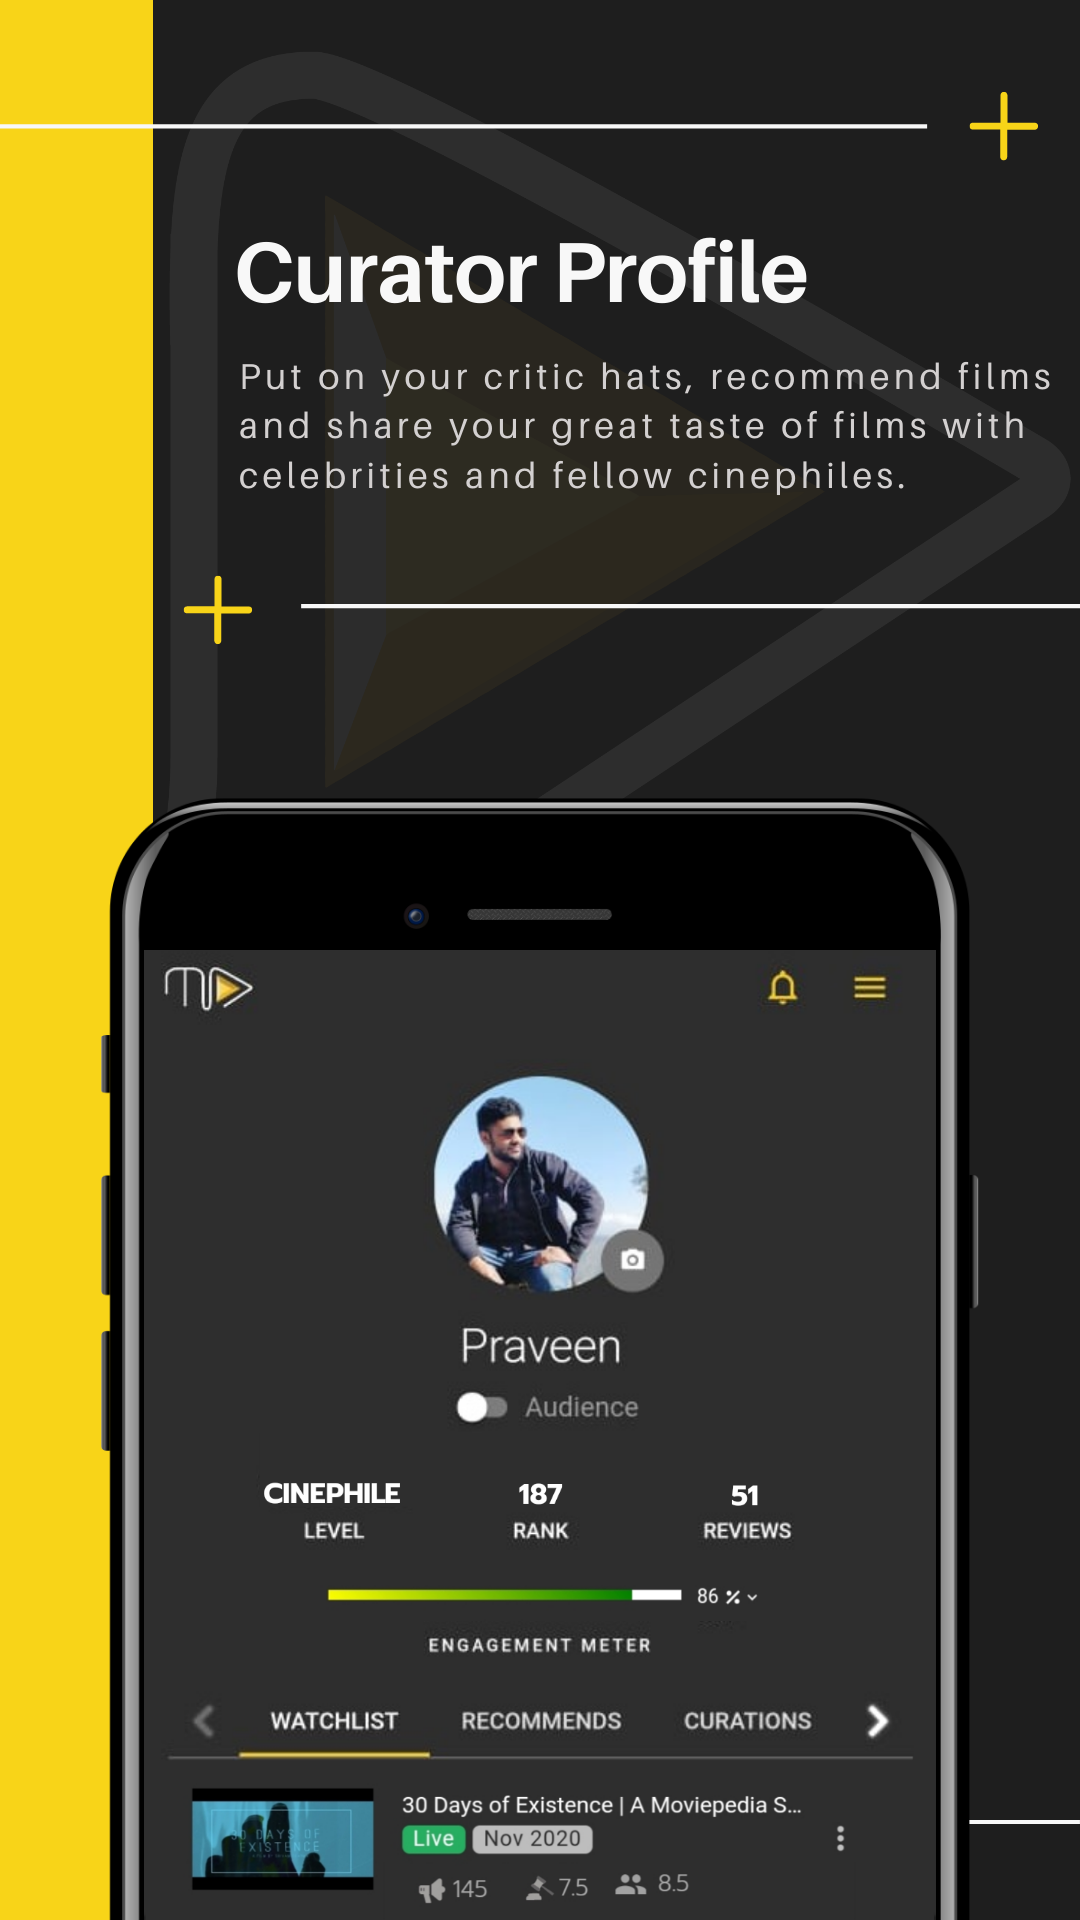
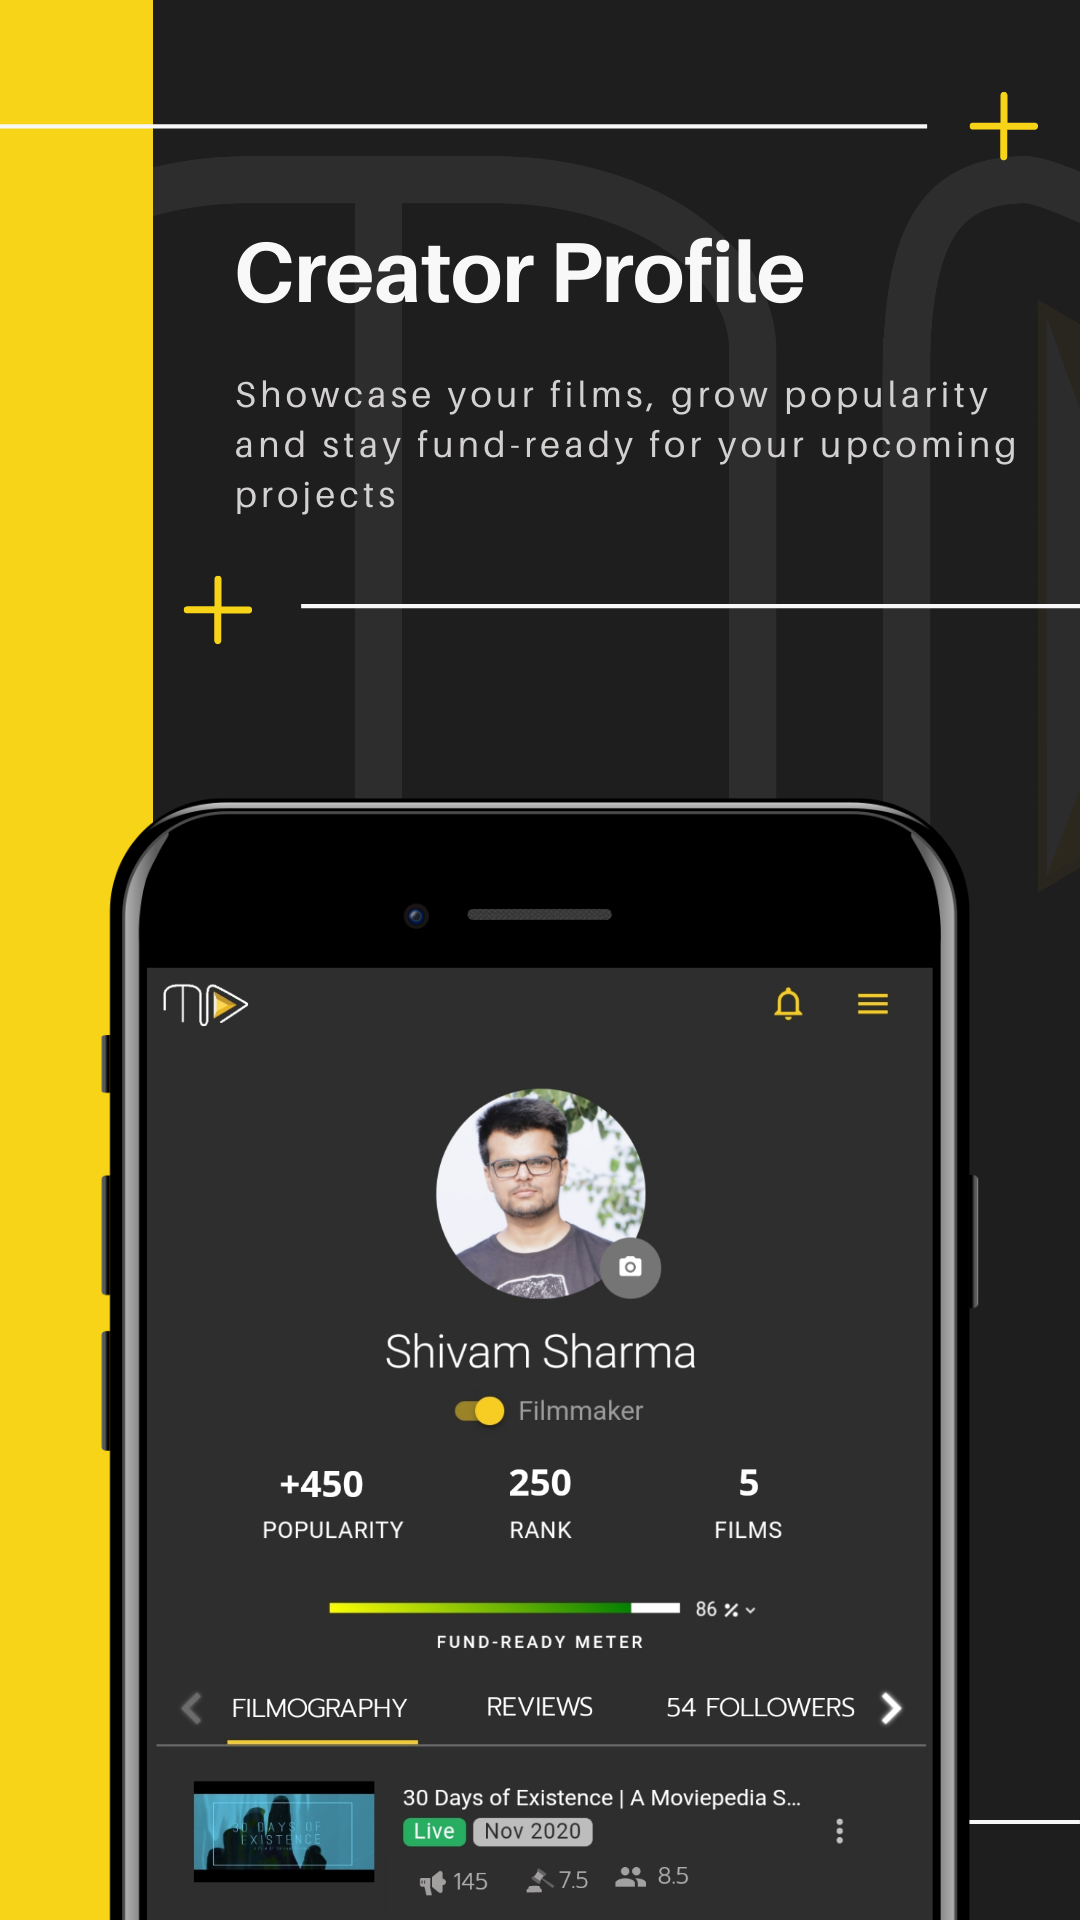
added out product

diff --git a/src/components/home/Slide9.vue b/src/components/home/Slide9.vue
@@ -1,109 +1,40 @@
 <template>
   <div
-    style="background-image: url('/img/9_bg.png')"
-    class="q-mt-lg mp-bg q-py-lg"
+    style="background-image: url('/img/8_bg.png')"
+    class="q-mt-md mp-bg q-mb-none"
   >
-    <bar-hammer />
-    <div class="q-mx-lg">
-      <div class="text-center q-mb-sm q-mt-lg">
-        <img src="@/assets/icon_stripped.png" width="200px" />
+    <div class="row items-stretch q-mt-md" style="display: relative">
+      <div class="col-12">
+        <bar-plus />
       </div>
-      <div class="mp-subtitle q-mb-lg text-center text-primary">
-        The First Content Discovery Platform
-      </div>
-
-      <div class="row q-my-md" v-for="(item, index) in contacts" :key="index">
-        <div
-          class="col self-center q-mr-lg text-right align-center mp-subtitle"
-          ref="content"
-        >
-          {{ item.text }}
-        </div>
-
-        <div
-          ref="icons"
-          class="flex justify-center items-center circular-border"
-          style="height: 70px; width: 70px"
-        >
-          <div
-            class="flex justify-center items-center circular-border"
-            style="height: 60px; width: 60px"
-          >
-            <q-btn
-              round
-              :icon="item.icon"
-              text-color="dark"
-              color="primary"
-              size="md"
-              @click="on_action(item)"
-            />
-            <a :href="item.href" :ref="item.action" target="_blank" />
+      <div class="col-10 offset-2 q-pa-md">
+        <div class="q-my-md q-mx-lg">
+          <div class="mp-title2 text-weight-bold">Curator Profile</div>
+          <div class="mp-subtitle q-mt-sm">
+            Put on the critic hats, recommend films and share your great taste
+            of films with celebrities and fellow cinephiles.
           </div>
         </div>
       </div>
-      <div class="mp-title2 text-weight-bold text-primary">Contact Us</div>
+      <div class="col-10 offset-2">
+        <bar-plus :rtl="true" />
+      </div>
+      <div class="col-12 text-center q-mt-lg" style="padding-bottom: 0px">
+        <img src="/img/9.png" width="100%" style="max-width: 300px" />
+      </div>
     </div>
-    <play-x3-bar />
   </div>
 </template>
 <script>
-import BarHammer from "@/components/style/BarHammer";
-import PlayX3Bar from "@/components/style/PlayX3Bar";
+import BarPlus from "@/components/style/BarPlus";
 export default {
-  components: { BarHammer, PlayX3Bar },
+  components: {
+    BarPlus,
+  },
   data() {
-    return {
-      contacts: [
-        {
-          text: "+91 8400334876",
-          href: "tel:+918400334876",
-          icon: "mdi-phone",
-          action: "phone",
-        },
-        {
-          text: "contactus@moviepediafilms.com",
-          href: "mailto:contactus@moviepediafilms.com",
-          icon: "mdi-email",
-          action: "email",
-        },
-        {
-          text: "+91 9711487501",
-          href: "https://wa.me/919711487501",
-          icon: "mdi-whatsapp",
-          action: "whatsapp",
-        },
-      ],
-    };
+    return {};
   },
   computed: {},
-  mounted() {
-    this.$refs.icons.forEach((icon, index) => {
-      this.$gsap.from(icon, {
-        scale: 0,
-        duration: 0.3 + 0.3 * index,
-        ease: "back",
-        scrollTrigger: icon,
-      });
-    });
-    this.$refs.content.forEach((text) => {
-      this.$gsap.from(text, {
-        opacity: 0,
-        duration: 0.5,
-        scrollTrigger: text,
-      });
-    });
-  },
-  methods: {
-    on_action(item) {
-      this.$refs[item.action][0].click();
-    },
-  },
+  mounted() {},
 };
 </script>
-<style scoped>
-.circular-border {
-  border: 1px solid #a2a2a2;
-  border-radius: 50%;
-  margin: auto;
-}
-</style>

diff --git a/src/components/home/Slide10.vue b/src/components/home/Slide10.vue
@@ -1,0 +1,109 @@
+<template>
+  <div
+    style="background-image: url('/img/10_bg.png')"
+    class="q-mt-lg mp-bg q-py-lg"
+  >
+    <bar-hammer />
+    <div class="q-mx-lg">
+      <div class="text-center q-mb-sm q-mt-lg">
+        <img src="@/assets/icon_stripped.png" width="200px" />
+      </div>
+      <div class="mp-subtitle q-mb-lg text-center text-primary">
+        The First Content Discovery Platform
+      </div>
+
+      <div class="row q-my-md" v-for="(item, index) in contacts" :key="index">
+        <div
+          class="col self-center q-mr-lg text-right align-center mp-subtitle"
+          ref="content"
+        >
+          {{ item.text }}
+        </div>
+
+        <div
+          ref="icons"
+          class="flex justify-center items-center circular-border"
+          style="height: 70px; width: 70px"
+        >
+          <div
+            class="flex justify-center items-center circular-border"
+            style="height: 60px; width: 60px"
+          >
+            <q-btn
+              round
+              :icon="item.icon"
+              text-color="dark"
+              color="primary"
+              size="md"
+              @click="on_action(item)"
+            />
+            <a :href="item.href" :ref="item.action" target="_blank" />
+          </div>
+        </div>
+      </div>
+      <div class="mp-title2 text-weight-bold text-primary">Contact Us</div>
+    </div>
+    <play-x3-bar />
+  </div>
+</template>
+<script>
+import BarHammer from "@/components/style/BarHammer";
+import PlayX3Bar from "@/components/style/PlayX3Bar";
+export default {
+  components: { BarHammer, PlayX3Bar },
+  data() {
+    return {
+      contacts: [
+        {
+          text: "+91 8400334876",
+          href: "tel:+918400334876",
+          icon: "mdi-phone",
+          action: "phone",
+        },
+        {
+          text: "contactus@moviepediafilms.com",
+          href: "mailto:contactus@moviepediafilms.com",
+          icon: "mdi-email",
+          action: "email",
+        },
+        {
+          text: "+91 9711487501",
+          href: "https://wa.me/919711487501",
+          icon: "mdi-whatsapp",
+          action: "whatsapp",
+        },
+      ],
+    };
+  },
+  computed: {},
+  mounted() {
+    this.$refs.icons.forEach((icon, index) => {
+      this.$gsap.from(icon, {
+        scale: 0,
+        duration: 0.3 + 0.3 * index,
+        ease: "back",
+        scrollTrigger: icon,
+      });
+    });
+    this.$refs.content.forEach((text) => {
+      this.$gsap.from(text, {
+        opacity: 0,
+        duration: 0.5,
+        scrollTrigger: text,
+      });
+    });
+  },
+  methods: {
+    on_action(item) {
+      this.$refs[item.action][0].click();
+    },
+  },
+};
+</script>
+<style scoped>
+.circular-border {
+  border: 1px solid #a2a2a2;
+  border-radius: 50%;
+  margin: auto;
+}
+</style>

diff --git a/src/components/home/Slide7.vue b/src/components/home/Slide7.vue
@@ -1,27 +1,26 @@
 <template>
   <div
     style="background-image: url('/img/7_bg.png')"
-    class="q-mt-md mp-bg q-py-lg"
+    class="q-mt-md mp-bg q-mb-none"
   >
-    <div class="row items-stretch">
-      <div
-        class="bg-primary"
-        ref="sidebar"
-        style="width: 50px; z-index: 1"
-      ></div>
-      <div class="col" style="z-index: 10">
+    <div class="row items-stretch q-mt-md" style="display: relative">
+      <div class="col-12">
         <bar-plus />
+      </div>
+      <div class="col-10 offset-2 q-pa-md">
         <div class="q-my-md q-mx-lg">
-          <div class="mp-title2 text-weight-bold">Creator Profile</div>
+          <div class="mp-title2 text-weight-bold">Our product</div>
           <div class="mp-subtitle q-mt-sm">
-            Showcase your films, grow popularity and stay fund-ready for your
-            upcoming projects
+            Create, CUrate, Recommend. Join us in our journey to democratize
+            independent cinema and let's celebrate this art of form together
           </div>
         </div>
+      </div>
+      <div class="col-10 offset-2">
         <bar-plus :rtl="true" />
-        <div class="q-mt-lg q-pt-lg bg-red" style="width: 100%">
-          <img src="/img/7.png" width="100%" />
-        </div>
+      </div>
+      <div class="col-12 text-center q-mt-lg" style="padding-bottom: 0px">
+        <img src="/img/7.png" width="100%" style="max-width: 300px" />
       </div>
     </div>
   </div>
@@ -36,15 +35,6 @@ export default {
     return {};
   },
   computed: {},
-  mounted() {
-    this.$gsap.from(this.$refs.sidebar, {
-      xPercent: -110,
-      duration: 0.8,
-      scrollTrigger: {
-        trigger: this.$refs.sidebar,
-        start: "top 50%",
-      },
-    });
-  },
+  mounted() {},
 };
 </script>

diff --git a/src/components/home/Slide8.vue b/src/components/home/Slide8.vue
@@ -1,12 +1,36 @@
 <template>
-  <div class="q-mt-lg mp-bg q-py-lg">
-    <img src="/img/slides/8.png" width="100%" />
+  <div
+    style="background-image: url('/img/8_bg.png')"
+    class="q-mt-md mp-bg q-mb-none"
+  >
+    <div class="row items-stretch q-mt-md" style="display: relative">
+      <div class="col-12">
+        <bar-plus />
+      </div>
+      <div class="col-10 offset-2 q-pa-md">
+        <div class="q-my-md q-mx-lg">
+          <div class="mp-title2 text-weight-bold">Creator Profile</div>
+          <div class="mp-subtitle q-mt-sm">
+            Showcase your films, grow popularity and stay fund-ready for your
+            upcoming projects
+          </div>
+        </div>
+      </div>
+      <div class="col-10 offset-2">
+        <bar-plus :rtl="true" />
+      </div>
+      <div class="col-12 text-center q-mt-lg" style="padding-bottom: 0px">
+        <img src="/img/8.png" width="100%" style="max-width: 300px" />
+      </div>
+    </div>
   </div>
 </template>
 <script>
-// import gsap from "gsap";
+import BarPlus from "@/components/style/BarPlus";
 export default {
-  components: {},
+  components: {
+    BarPlus,
+  },
   data() {
     return {};
   },

diff --git a/src/views/TempHome.vue b/src/views/TempHome.vue
@@ -10,6 +10,7 @@
       <slide7></slide7>
       <slide8></slide8>
       <slide9></slide9>
+      <slide10></slide10>
     </div>
   </base-layout>
 </template>
@@ -24,6 +25,7 @@ import Slide6 from "@/components/home/Slide6";
 import Slide7 from "@/components/home/Slide7";
 import Slide8 from "@/components/home/Slide8";
 import Slide9 from "@/components/home/Slide9";
+import Slide10 from "@/components/home/Slide10";
 export default {
   components: {
     Slide1,
@@ -35,6 +37,7 @@ export default {
     Slide7,
     Slide8,
     Slide9,
+    Slide10,
     BaseLayout,
   },
   data() {
